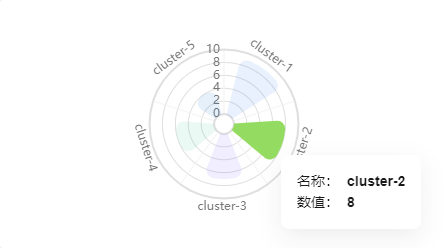
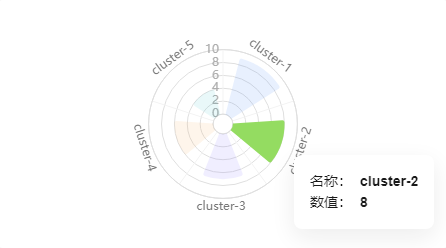
fix(PolarBarChart): resize PolarBarChart borderRadius and update case thumbnail (#54)
* fix(PolarBarChart): resize PolarBarChart borderRadius

* update(PolarBarChart): update case thumbnail

diff --git a/src/components/PolarBarChart/handleSeries.js b/src/components/PolarBarChart/handleSeries.js
@@ -28,7 +28,7 @@ function getSeriesInit(type) {
       barGap: '-100%',
       barCategoryGap: '40%',
       itemStyle: {
-        borderRadius: [0, 0, 4, 4],
+        borderRadius: [0, 0, 2, 2],
       },
     }
     : {
